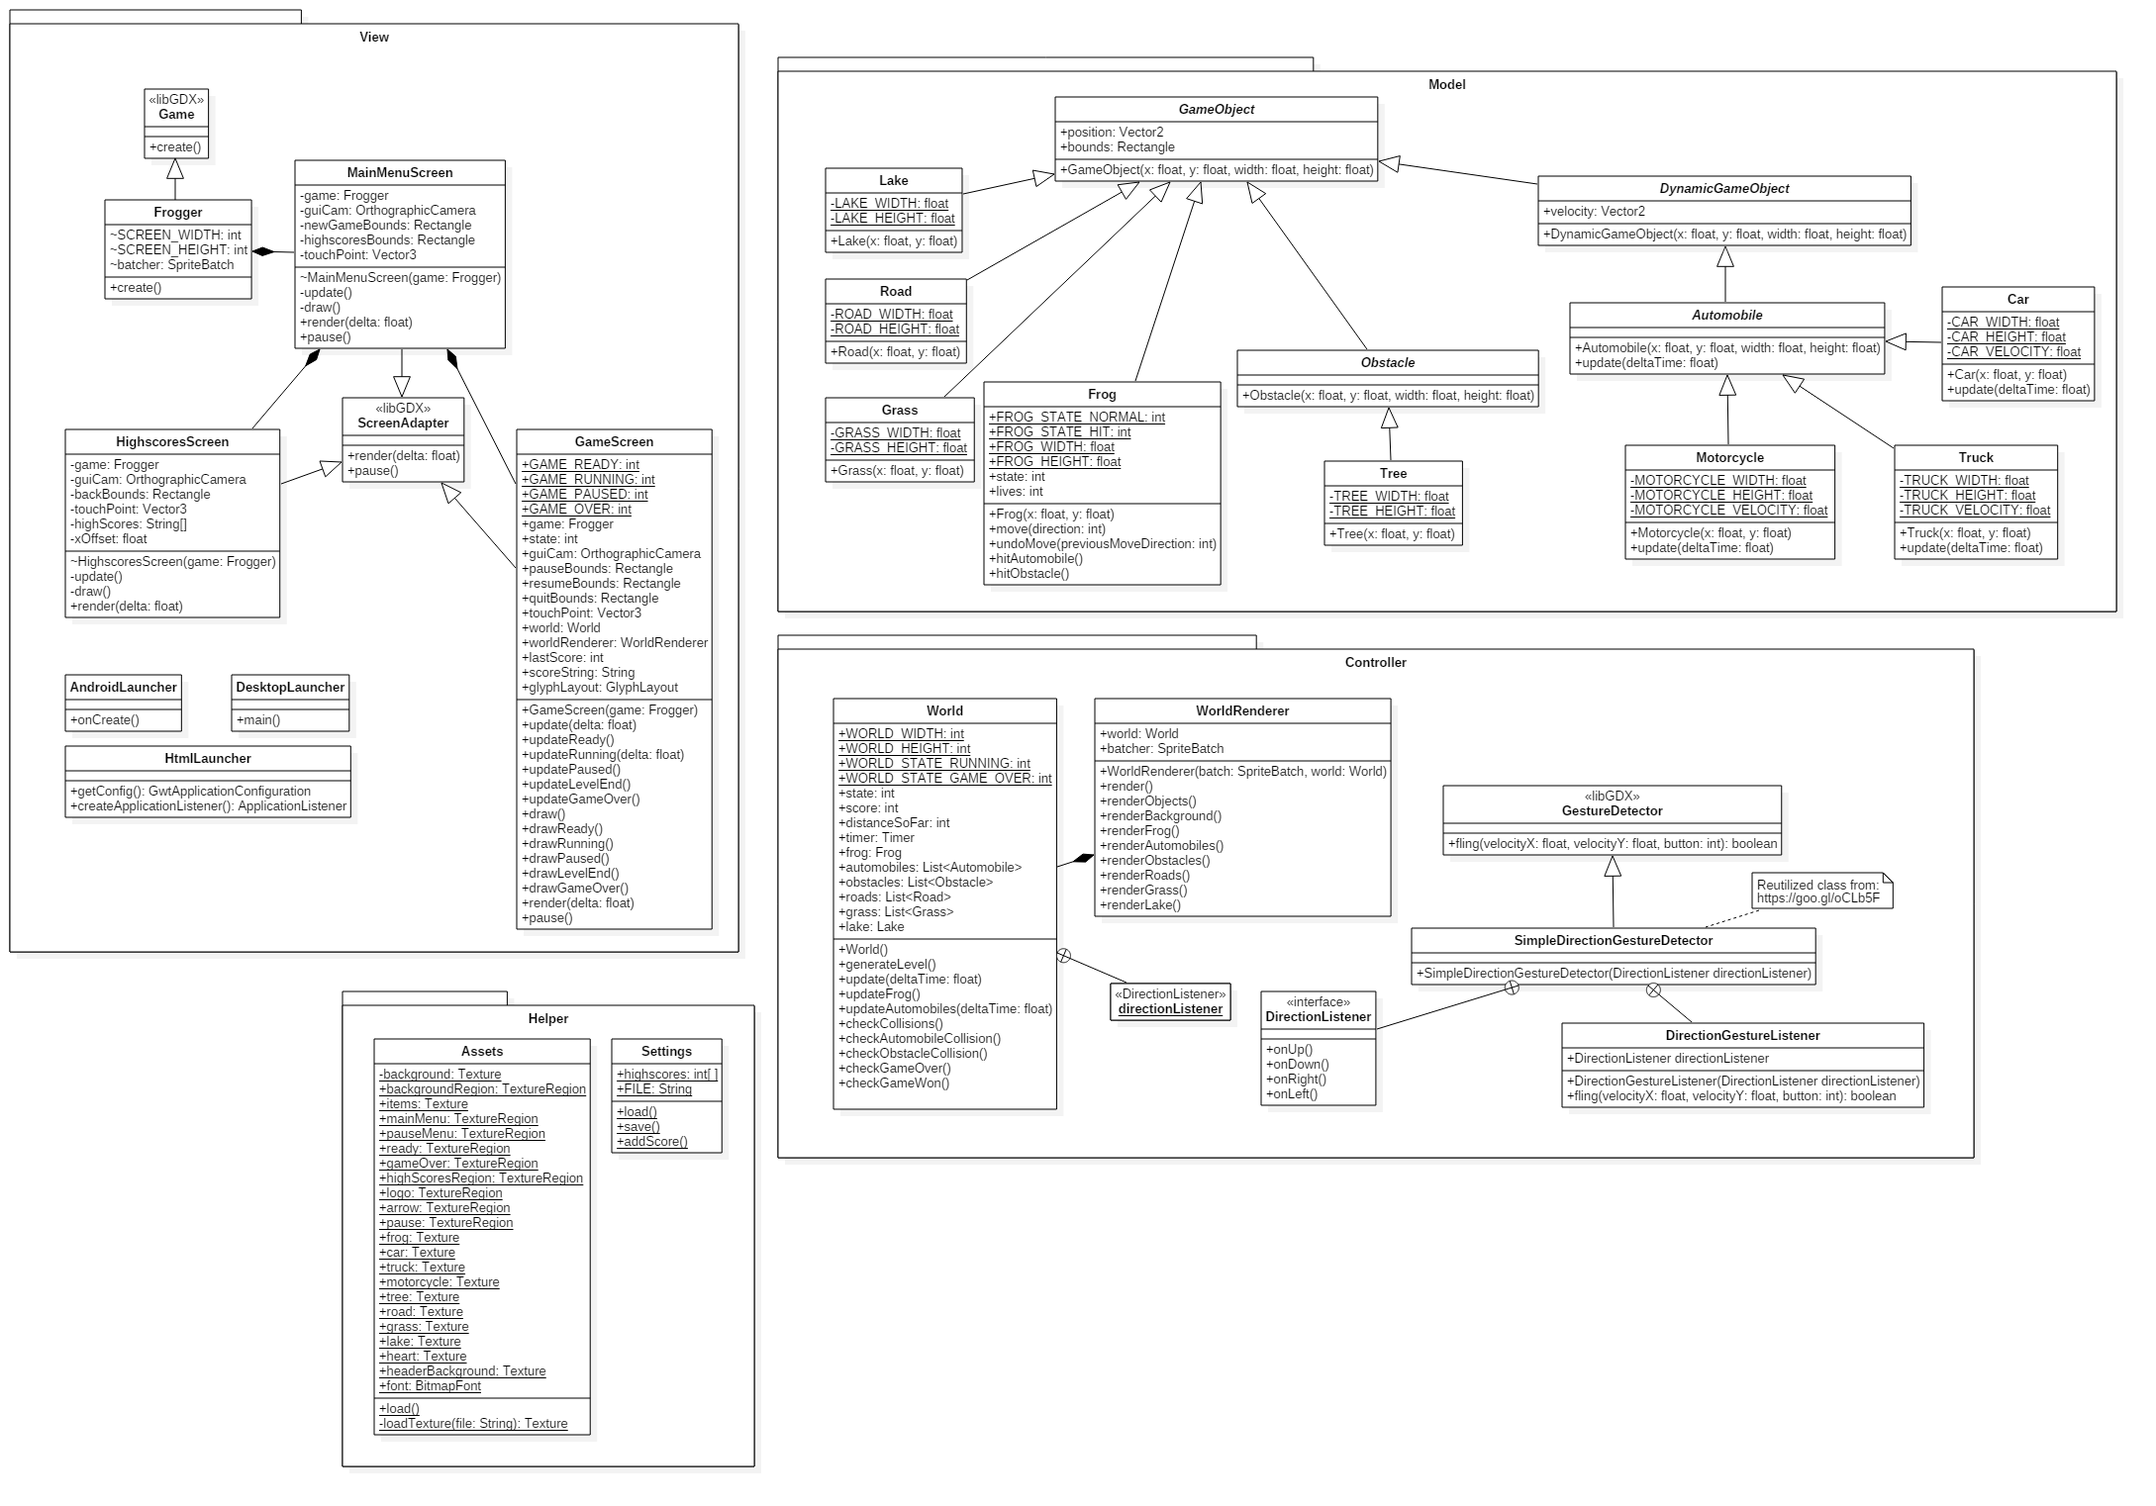
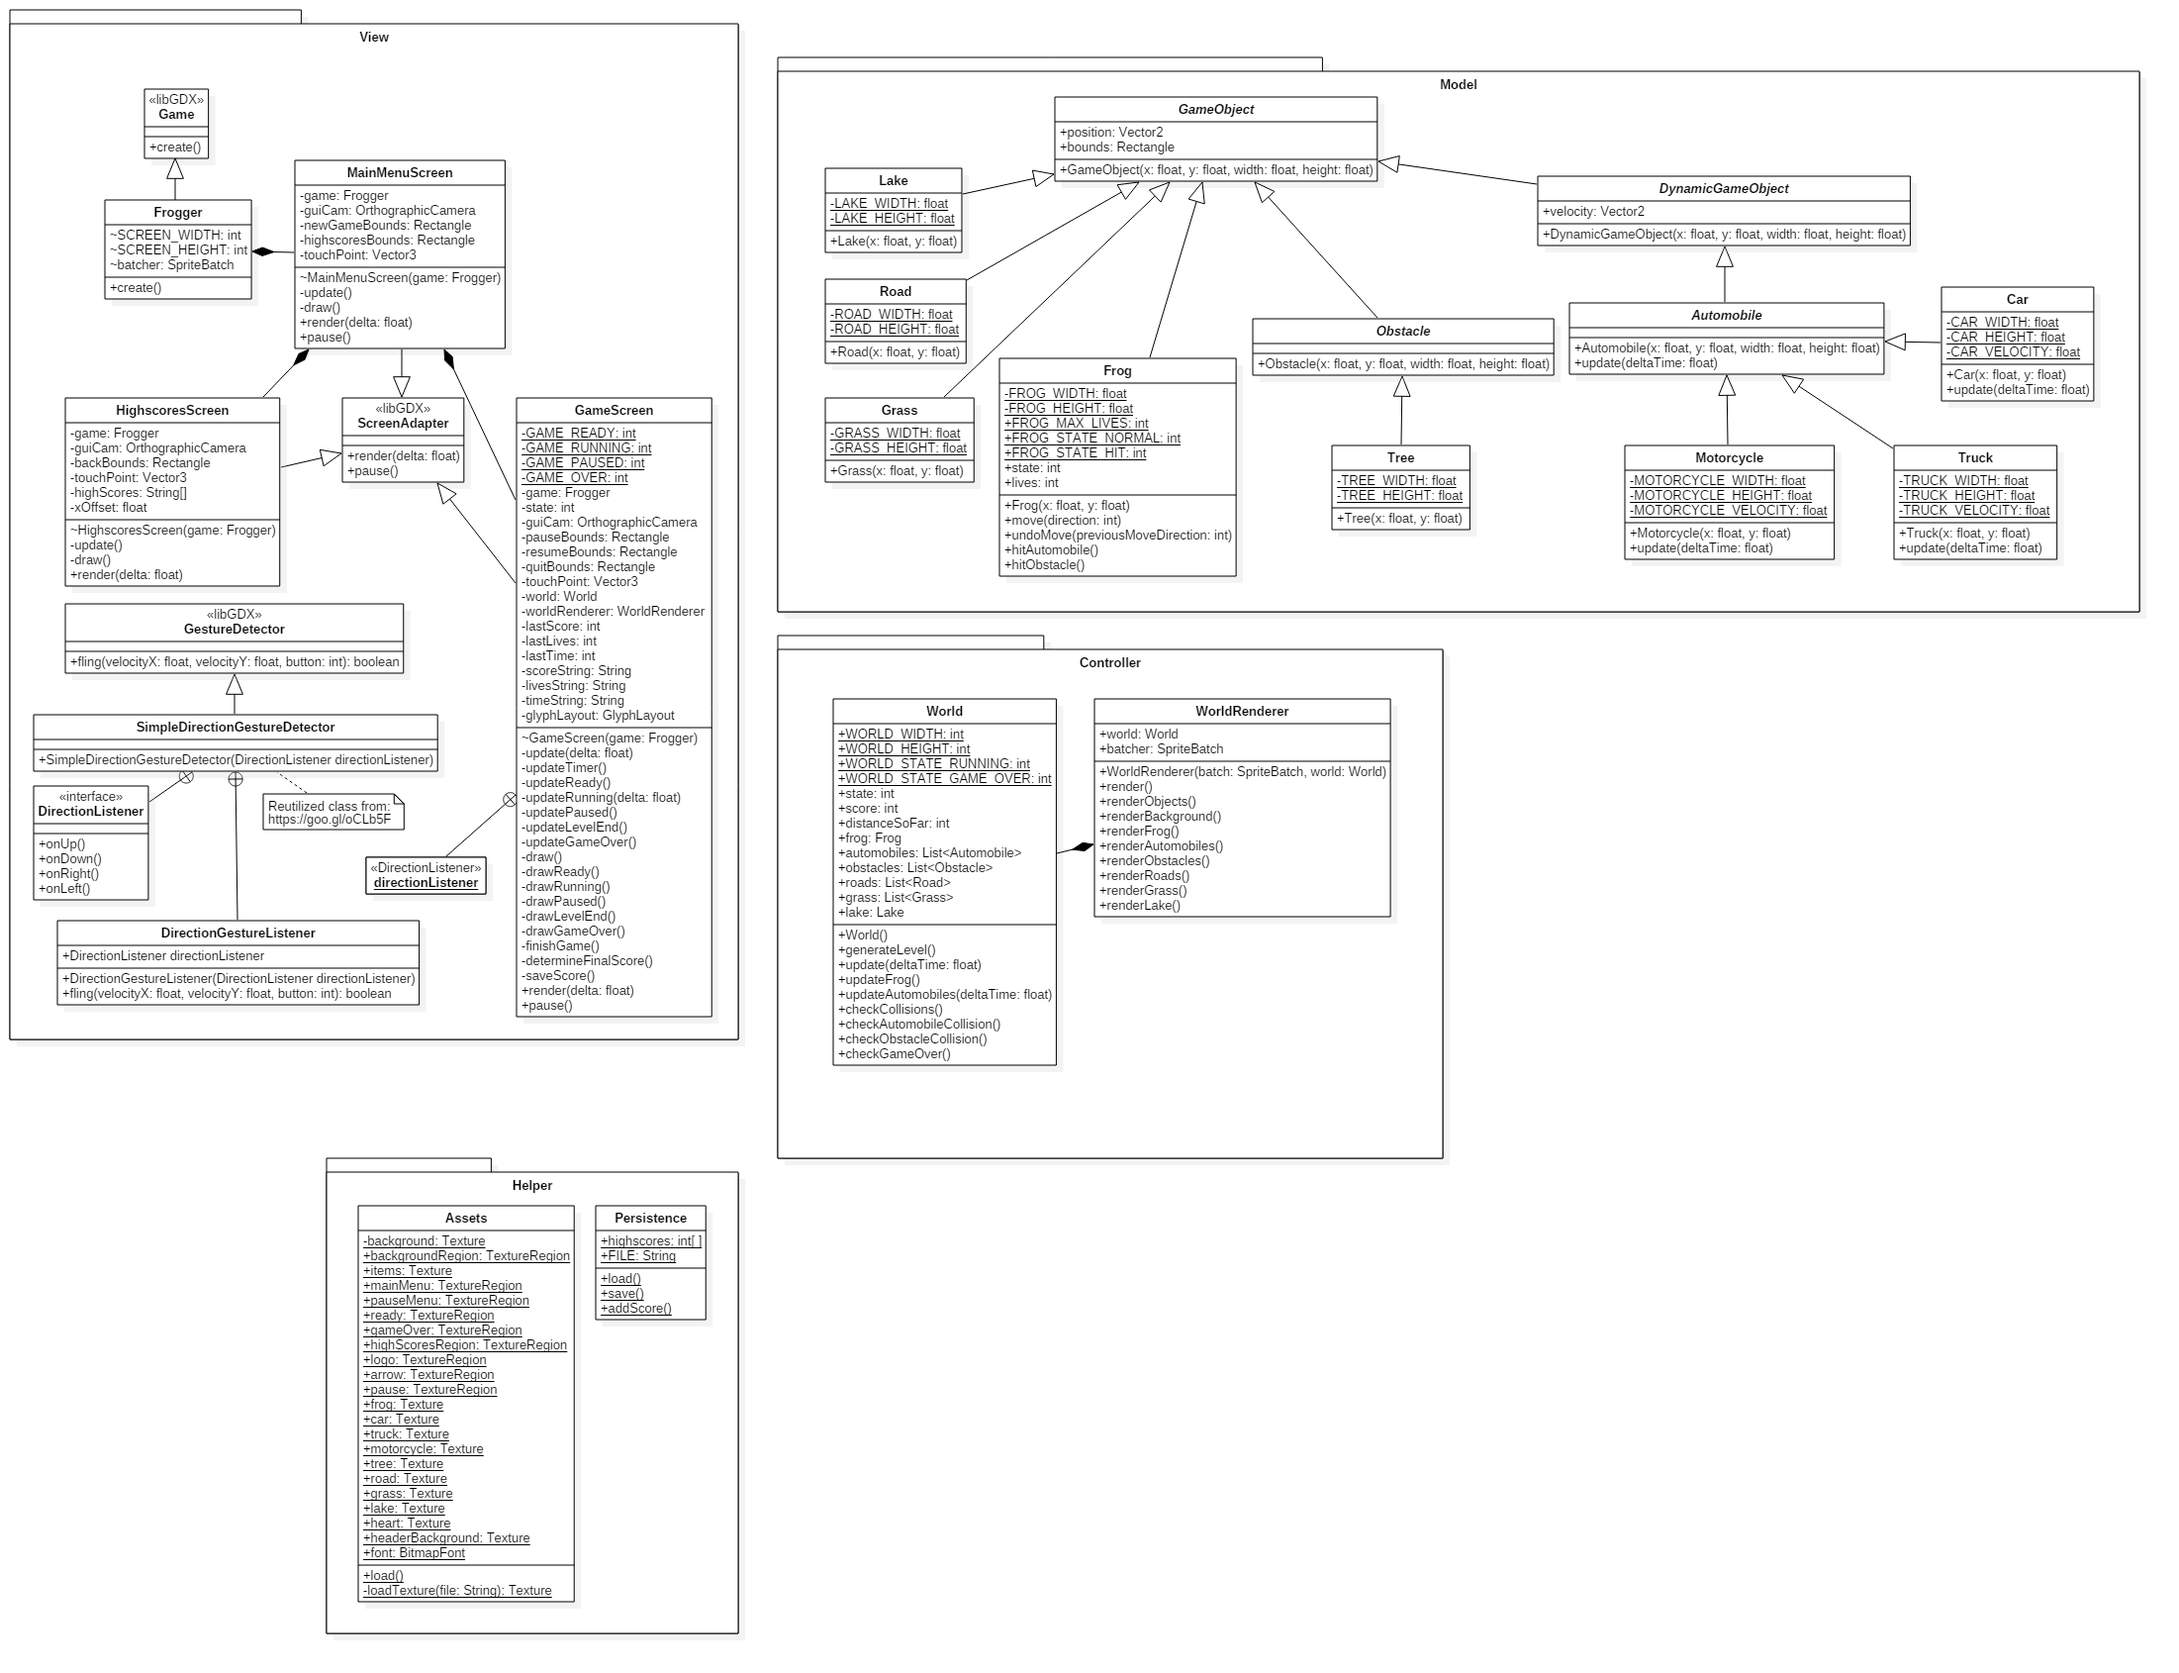
Ajustado nome da classe para Persistence

Changed region(s): [[0.0, 0.0, 0.9679, 0.9882], [0.6556, 0.525, 0.9054, 0.7411], [0.4995, 0.6485, 0.6556, 0.7411]]

diff --git a/core/src/com/tcp/trabalhopratico/view/GameScreen.java b/core/src/com/tcp/trabalhopratico/view/GameScreen.java
@@ -11,7 +11,7 @@ import com.badlogic.gdx.utils.Timer;
 import com.tcp.trabalhopratico.controller.World;
 import com.tcp.trabalhopratico.controller.WorldRenderer;
 import com.tcp.trabalhopratico.helper.Assets;
-import com.tcp.trabalhopratico.helper.Settings;
+import com.tcp.trabalhopratico.helper.Persistence;
 
 /**
  * Classe que representa a tela de jogo. Contém instâncias do Controller e exibe ao usuário
@@ -281,10 +281,10 @@ class GameScreen extends ScreenAdapter {
      * Também prepara a string para exibição ao usuário.
      */
     private void saveScore() {
-        if (lastScore >= Settings.highscores[4]) {
+        if (lastScore >= Persistence.highscores[4]) {
             scoreString = "NEW HIGHSCORE: " + lastScore;
-            Settings.addScore(lastScore);
-            Settings.save();
+            Persistence.addScore(lastScore);
+            Persistence.save();
         } else {
             scoreString = "FINAL SCORE: " + lastScore;
         }

diff --git a/core/src/com/tcp/trabalhopratico/view/HighscoresScreen.java b/core/src/com/tcp/trabalhopratico/view/HighscoresScreen.java
@@ -8,7 +8,7 @@ import com.badlogic.gdx.graphics.g2d.GlyphLayout;
 import com.badlogic.gdx.math.Rectangle;
 import com.badlogic.gdx.math.Vector3;
 import com.tcp.trabalhopratico.helper.Assets;
-import com.tcp.trabalhopratico.helper.Settings;
+import com.tcp.trabalhopratico.helper.Persistence;
 
 /**
  * Classe responsável por exibir a tela de pontuação do jogo, exibindo as cinco maiores pontuações.
@@ -36,7 +36,7 @@ class HighscoresScreen extends ScreenAdapter {
         touchPoint = new Vector3();
         highScores = new String[5];
         for (int i = 0; i < 5; i++) {
-            highScores[i] = i + 1 + ". " + Settings.highscores[i];
+            highScores[i] = i + 1 + ". " + Persistence.highscores[i];
             glyphLayout.setText(Assets.font, highScores[i]);
             xOffset = Math.max(glyphLayout.width, xOffset);
         }

diff --git a/core/src/com/tcp/trabalhopratico/view/Frogger.java b/core/src/com/tcp/trabalhopratico/view/Frogger.java
@@ -3,7 +3,7 @@ package com.tcp.trabalhopratico.view;
 import com.badlogic.gdx.graphics.g2d.SpriteBatch;
 import com.badlogic.gdx.Game;
 import com.tcp.trabalhopratico.helper.Assets;
-import com.tcp.trabalhopratico.helper.Settings;
+import com.tcp.trabalhopratico.helper.Persistence;
 
 /**
  * Classe que inicia o software. Responsável por carregar os recursos e iniciar
@@ -21,7 +21,7 @@ public class Frogger extends Game {
 	@Override
 	public void create() {
 		batcher = new SpriteBatch();
-		Settings.load();
+		Persistence.load();
 		Assets.load();
 		setScreen(new MainMenuScreen(this));
 	}

diff --git a/core/src/com/tcp/trabalhopratico/view/MainMenuScreen.java b/core/src/com/tcp/trabalhopratico/view/MainMenuScreen.java
@@ -7,7 +7,7 @@ import com.badlogic.gdx.graphics.OrthographicCamera;
 import com.badlogic.gdx.math.Rectangle;
 import com.badlogic.gdx.math.Vector3;
 import com.tcp.trabalhopratico.helper.Assets;
-import com.tcp.trabalhopratico.helper.Settings;
+import com.tcp.trabalhopratico.helper.Persistence;
 
 /**
  * Classe responsável por exibir a tela principal do jogo, de onde o usuário pode iniciar
@@ -86,6 +86,6 @@ class MainMenuScreen extends ScreenAdapter {
      */
     @Override
     public void pause () {
-        Settings.save();
+        Persistence.save();
     }
 }

diff --git a/core/src/com/tcp/trabalhopratico/helper/Persistence.java b/core/src/com/tcp/trabalhopratico/helper/Persistence.java
@@ -7,7 +7,7 @@ import com.badlogic.gdx.files.FileHandle;
  * Classe que gerencia persistência de dados, em especial o ranking de pontuação do jogo.
  * A classe cria uma string padrão de pontuações para preencher a tela de rankings.
  */
-public class Settings {
+public class Persistence {
     public static int[] highscores = new int[] {80, 70, 60, 50, 40};
     public final static String file = ".frogger";
 
